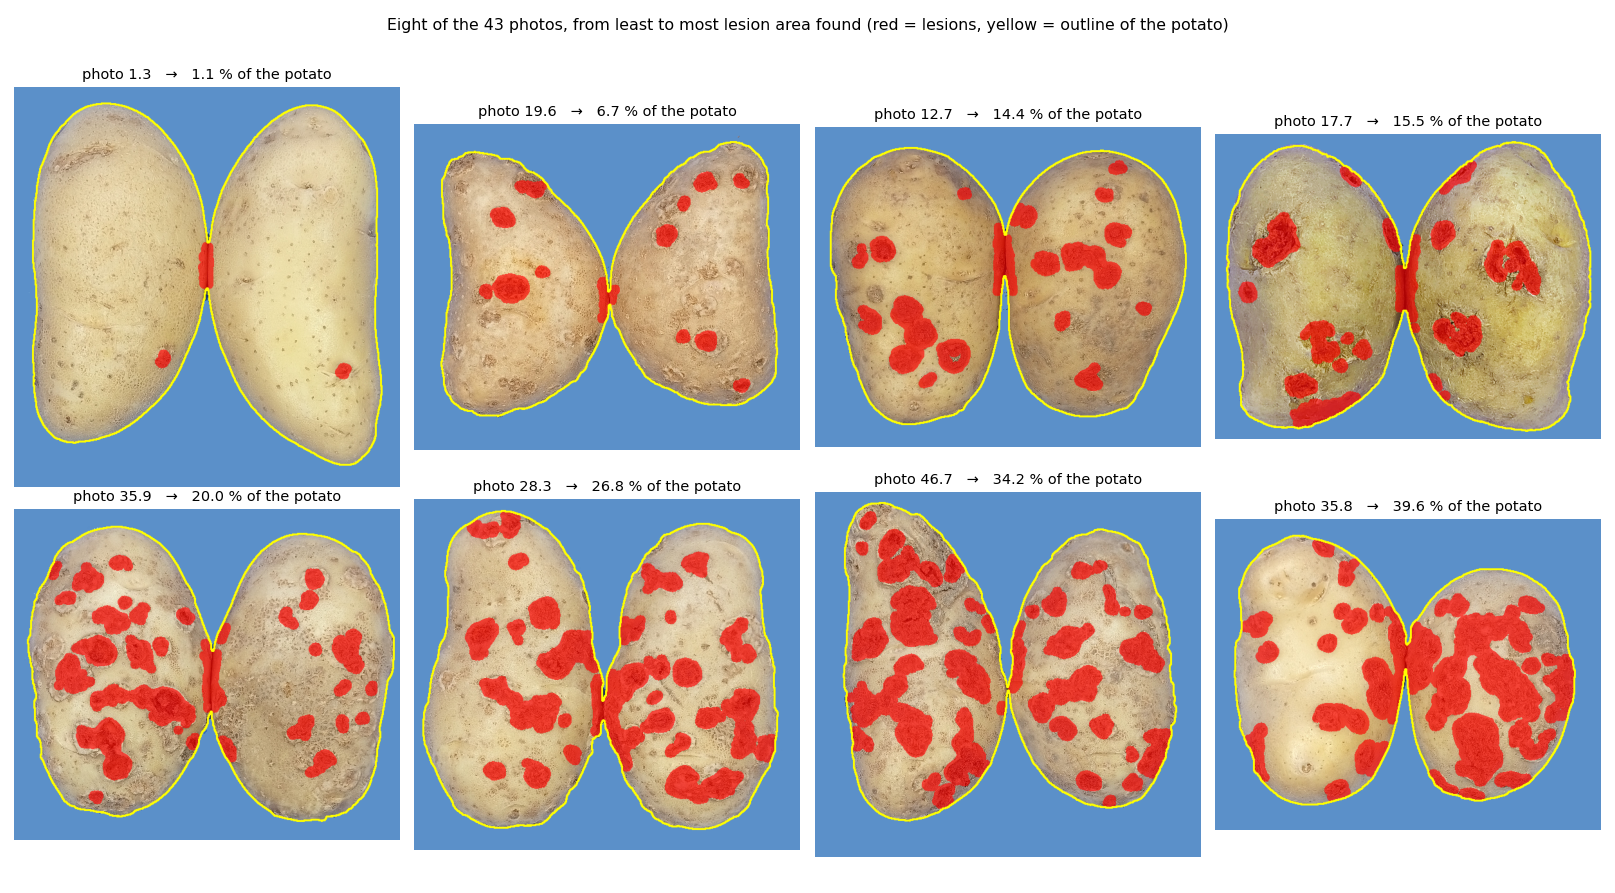
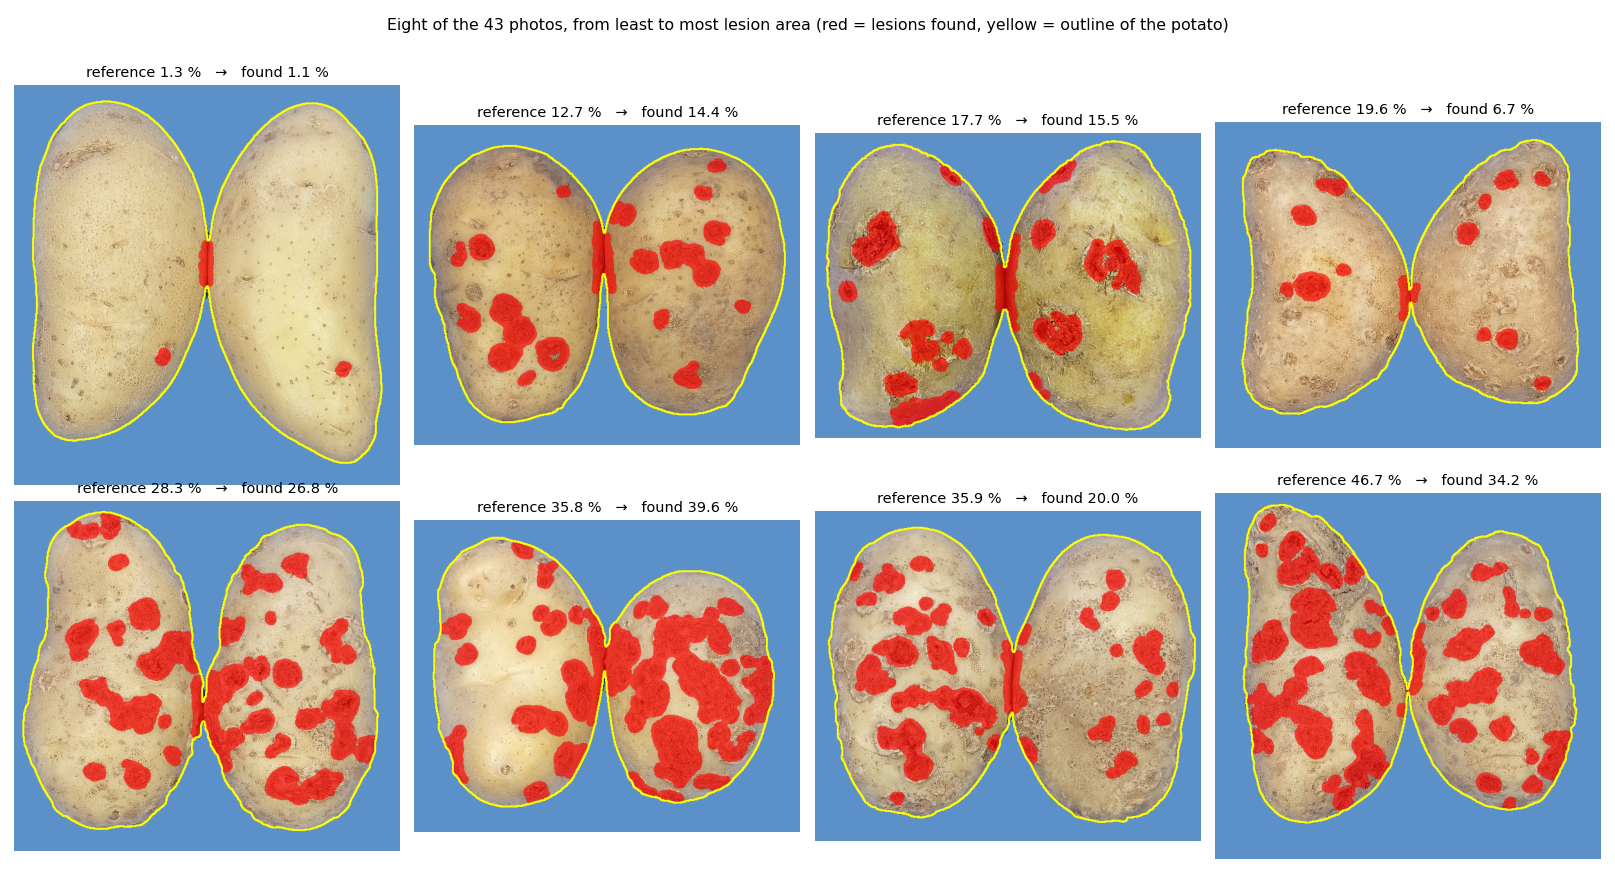
README: add validation against the reference lesion percentages (the numbers in the photo names)
Text and figures only. The reference matches the lesion share of the segmentation masks in the project's slides for 40 of 43 photos.

diff --git a/README.md b/README.md
@@ -10,7 +10,7 @@ Corky scab shows up as rough, darker patches on the skin of the tuber. To compar
 
 So I wrote a small tool that turns a photo into a number. It is meant for anyone who needs to **measure the lesion area on many tubers photographed in the same way** (same blue background, similar lighting), for example to compare groups or to rank samples. It is a classical image-analysis tool: it does not need any hand-annotated examples and does not use a neural network, so everything it does can be followed step by step.
 
-It is a research and portfolio project, not a validated measuring instrument: see "How reliable is it?" below.
+It is a research and portfolio project, not a validated measuring instrument: see "How well does it agree with the reference?" and "Known weak spots" below.
 
 ## How it works
 
@@ -37,30 +37,52 @@ I started by cropping a few lesions and a healthy area from one photo and plotti
 
 ## Samples
 
-I ran it on 43 photos. These are eight of them, from the least to the most lesion area found. The names are the sample numbers of the photos:
+I ran it on 43 photos. Each photo also has a **reference value**: the lesion percentage that I calculated for it separately (with another tool or by hand, not with this program), which is the number in the photo's file name. These are eight of the photos, from the least to the most lesion area:
 
-![Eight photos with the lesions found](assets/samples_grid.png)
+![Eight photos: reference value and value found](assets/samples_grid.png)
 
-Over the 43 photos the lesion area found goes from 1.1 % to 39.6 % of the potato (median 18.6 %).
+Over the 43 photos the reference goes from 0 % to 66.7 %, and the program found between 1.1 % and 39.6 %.
 
-## How reliable is it?
+## How well does it agree with the reference?
 
-**I have no reference measurement for these photos** (no hand-drawn lesion masks and no visual score), so I cannot tell you how *accurate* the percentage is. What I can tell you is what I checked:
+I compared the percentage found by the program with the reference value of each of the 43 photos. I checked in the lesion masks of my slides that the number in the file name is indeed the lesion share of the potato in 40 of the 43 photos. In the other three (the most severe, 41.3, 57.2 and 66.7) I could not confirm it, so I kept the file-name value for all 43 and also give the numbers without those three.
 
-- **By eye,** the red patches follow the dark rough spots well in the photos I looked at (see the samples above).
-- **Is it stable?** I ran the same 43 photos again changing things I did not mean to change:
+| | All 43 photos | Without the 3 I could not confirm (40) |
+|---|---|---|
+| Correlation with the reference | 0.81 | 0.82 |
+| Average error | 6.9 points | 5.9 points |
+| Photos within 5 points of the reference | 21 | 21 |
+| Photos within 10 points | 32 | 31 |
+
+![Lesion percentage found against the reference](assets/validation.png)
+
+*How to read it:* in the left plot each dot is one photo. If the program matched the reference exactly, every dot would sit on the dashed line. The right plot groups the photos by reference severity.
+
+What I take from it:
+- **It ranks the potatoes reasonably well** (correlation 0.8): more affected potatoes get higher percentages.
+- **The percentage itself is only approximate:** about half of the photos are within 5 points of the reference and three quarters within 10.
+- **It squeezes the scale.** For mildly affected potatoes (reference 5–15 %) it finds too much (16.5 % on average, against 9.8 %); for the most affected ones (30–70 %) it finds too little (32 % against 41 %). The largest misses are photo 66.7 (reference 66.7 %, found 32.7 %), 57.2 (found 36.7 %) and 8.1 (reference 8.1 %, found 25.3 %). For the very severe potatoes the program seems to reach a ceiling around 35–40 %.
+- **Do not take this as a clean test.** The reference is another calculation, not an absolute truth. And four of these photos (3.0, 1.3, 5.4 and 8.1) are the ones I used to tune the recipe, so the agreement is probably a little better than it would be on new photos.
+
+## Is it stable?
+
+I also ran the same 43 photos again, changing things I did not mean to change:
 
 ![How much the answer moves](assets/stability.png)
 
-  - **A different random start for K-Means** barely matters: the percentage of a photo moves by about **0.2 points** (at most 1.4 points).
-  - **A different working resolution matters a lot.** I compared three: 400, 600 (the default) and 800 pixels wide. In the right-hand plot each dot is one photo analysed twice: the horizontal axis is its result at 600 px and the vertical axis is its result at 400 or 800 px. **This is not "real versus predicted"**: there is no real value for these photos, only the same photo measured at different resolutions. The 600 px result is the diagonal itself, so the further a dot is from the dashed line, the more that photo changed. Across the three, the percentage of one photo moves by about **9 points** (up to 40). Compared with the 600 px result, at 800 px the ranking of the potatoes stays almost the same (rank agreement 0.99), but at 400 px it changes more (0.69), and the numbers shift (on average −7 points at 400 px and +3 points at 800 px). So the number is tied to the 600 px setting. Always analyse every photo the same way, and do not compare with percentages made at another size.
+- **A different random start for K-Means** barely matters: the percentage of a photo moves by about **0.2 points** (at most 1.4 points).
+- **A different working resolution matters a lot.** I compared three: 400, 600 (the default) and 800 pixels wide. In the right-hand plot each dot is one photo analysed twice: the horizontal axis is its result at 600 px and the vertical axis is its result at 400 or 800 px. **This plot is not "reference versus found"** (that is the previous section): it only compares the same photo measured at different resolutions. The 600 px result is the diagonal itself, so the further a dot is from the dashed line, the more that photo changed. Across the three, the percentage of one photo moves by about **9 points** (up to 40). Compared with the 600 px result, at 800 px the ranking of the potatoes stays almost the same (rank agreement 0.99), but at 400 px it changes more (0.69), and the numbers shift (on average −7 points at 400 px and +3 points at 800 px). Against the reference, 600 px has the lowest average error of the three (6.9 points, against 7.6 at 800 px and 9.3 at 400 px). So the number is tied to the 600 px setting: always analyse every photo the same way, and do not compare with percentages made at another size.
+
+## Known weak spots
+
+- **By eye,** the red patches follow the dark rough spots well in the photos I looked at (see the samples above).
 - **A known false alarm:** in most of the photos shown above, the narrow dark strip where the two potatoes touch (a shadow) is marked as lesion. It adds a little to the total.
 - **It always makes two piles.** K-Means splits any potato in two, whether it has lesions or not. In a test with an artificial, perfectly lesion-free potato (with a little noise added) it reported 94.5 % lesions; in the same test with painted lesions covering 12.1 % it reported 14.7 %. Real photos behave better than this artificial one, but it shows that the method cannot say "there are no lesions" by itself.
 
 ## Things to keep in mind
 
 - **A blue background and even light.** The potato is found as "not blue"; with another background the mask will fail.
-- **Not validated against a manual measurement** of the lesion area. The percentages are what the method produces, tuned by eye on a handful of photos.
+- **The reference is another calculation, not an absolute truth,** and a few of those photos were used while I was tuning the recipe, so the agreement with it is probably better than it would be on new photos (see above).
 - **The percentage is relative to the visible surface** in the photo (one side of the potatoes), not to the whole tuber.
 - **Research-grade code:** it prints progress messages with emojis and silences warnings globally.
 
